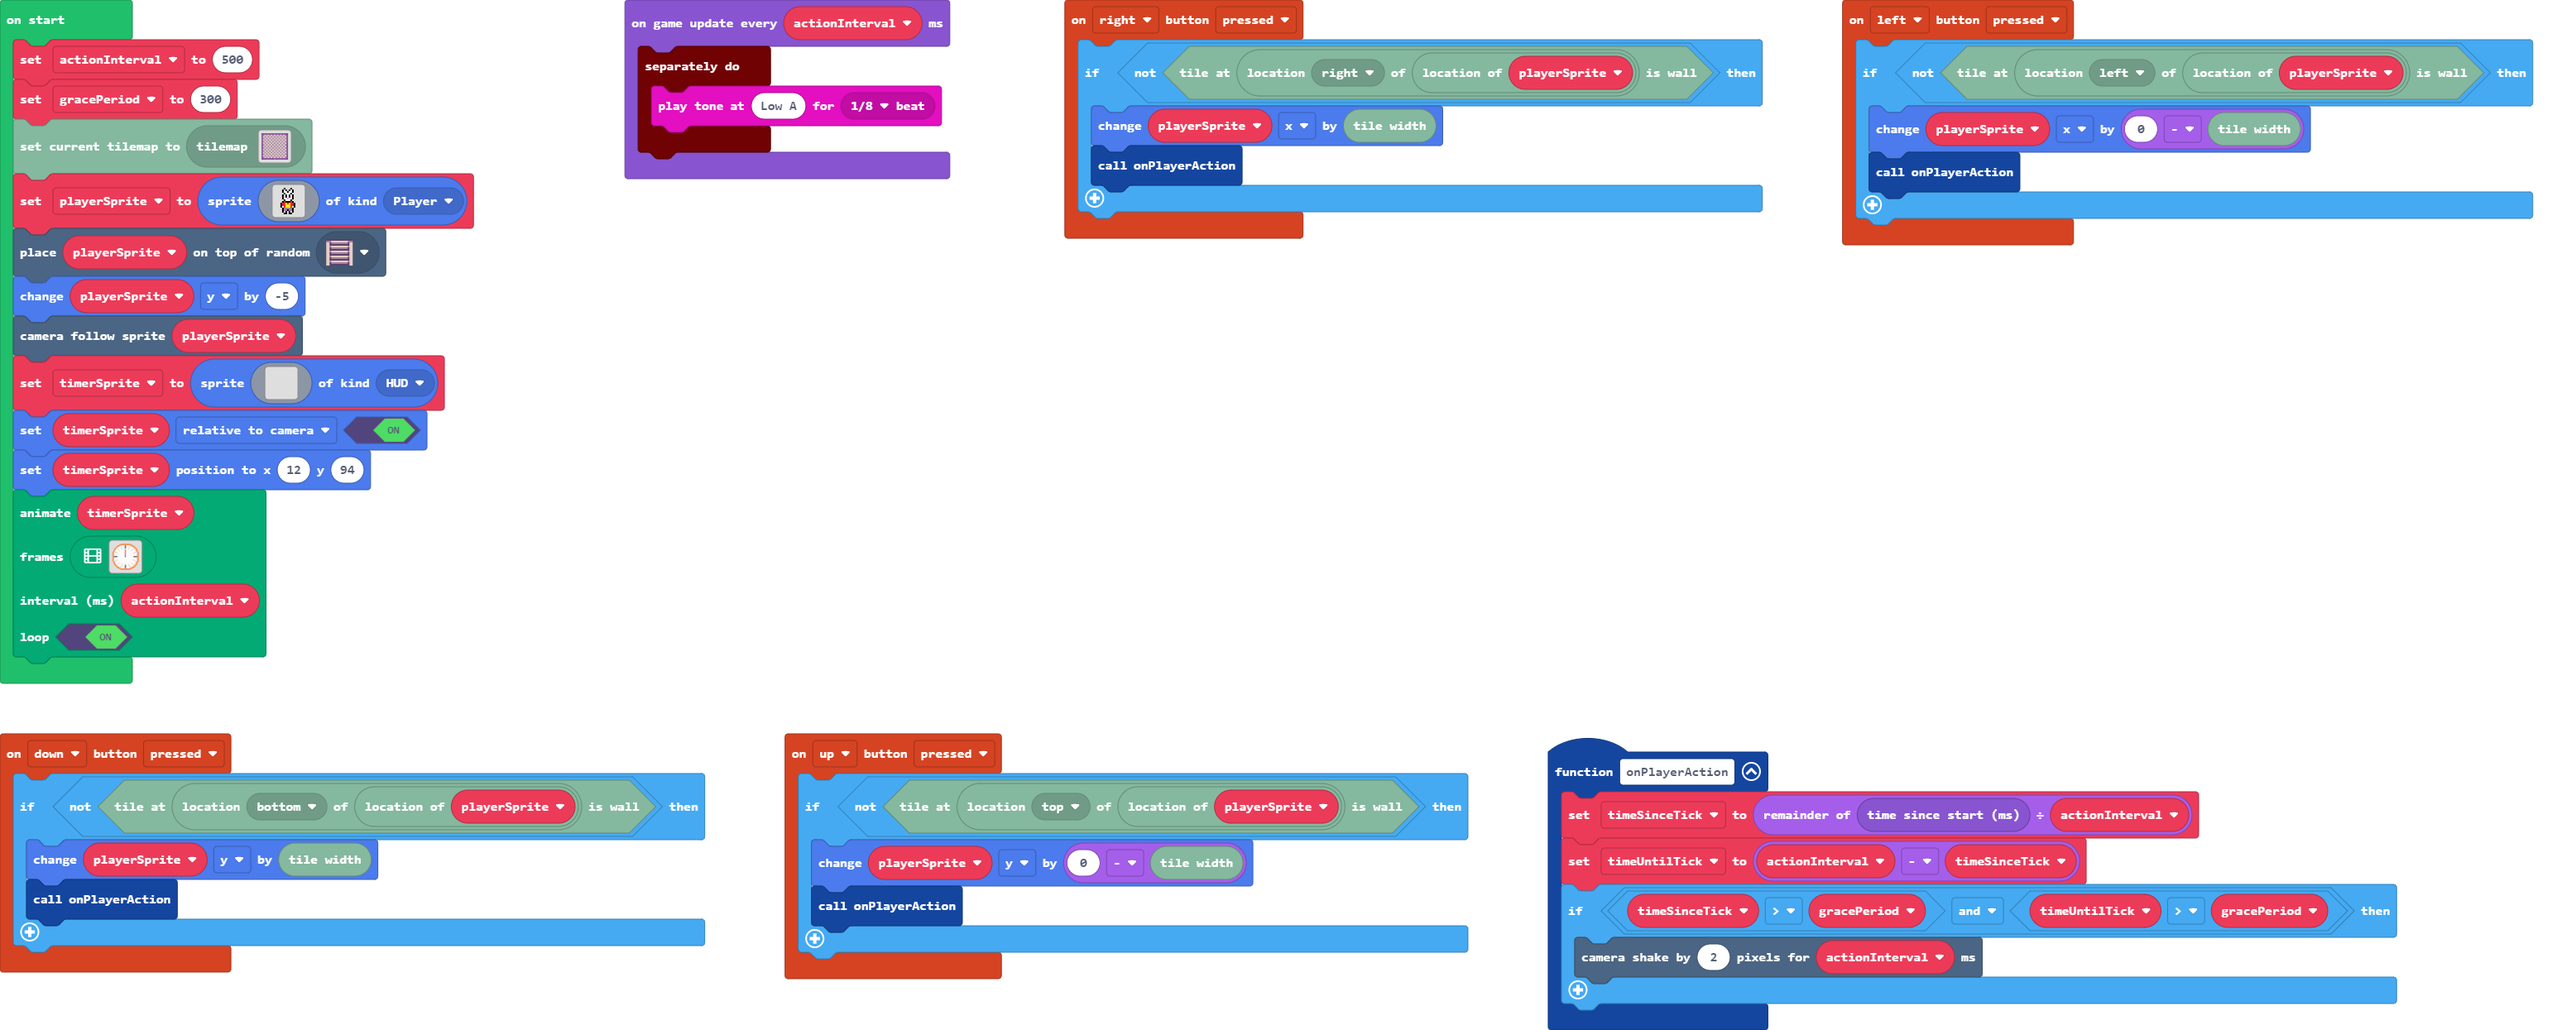
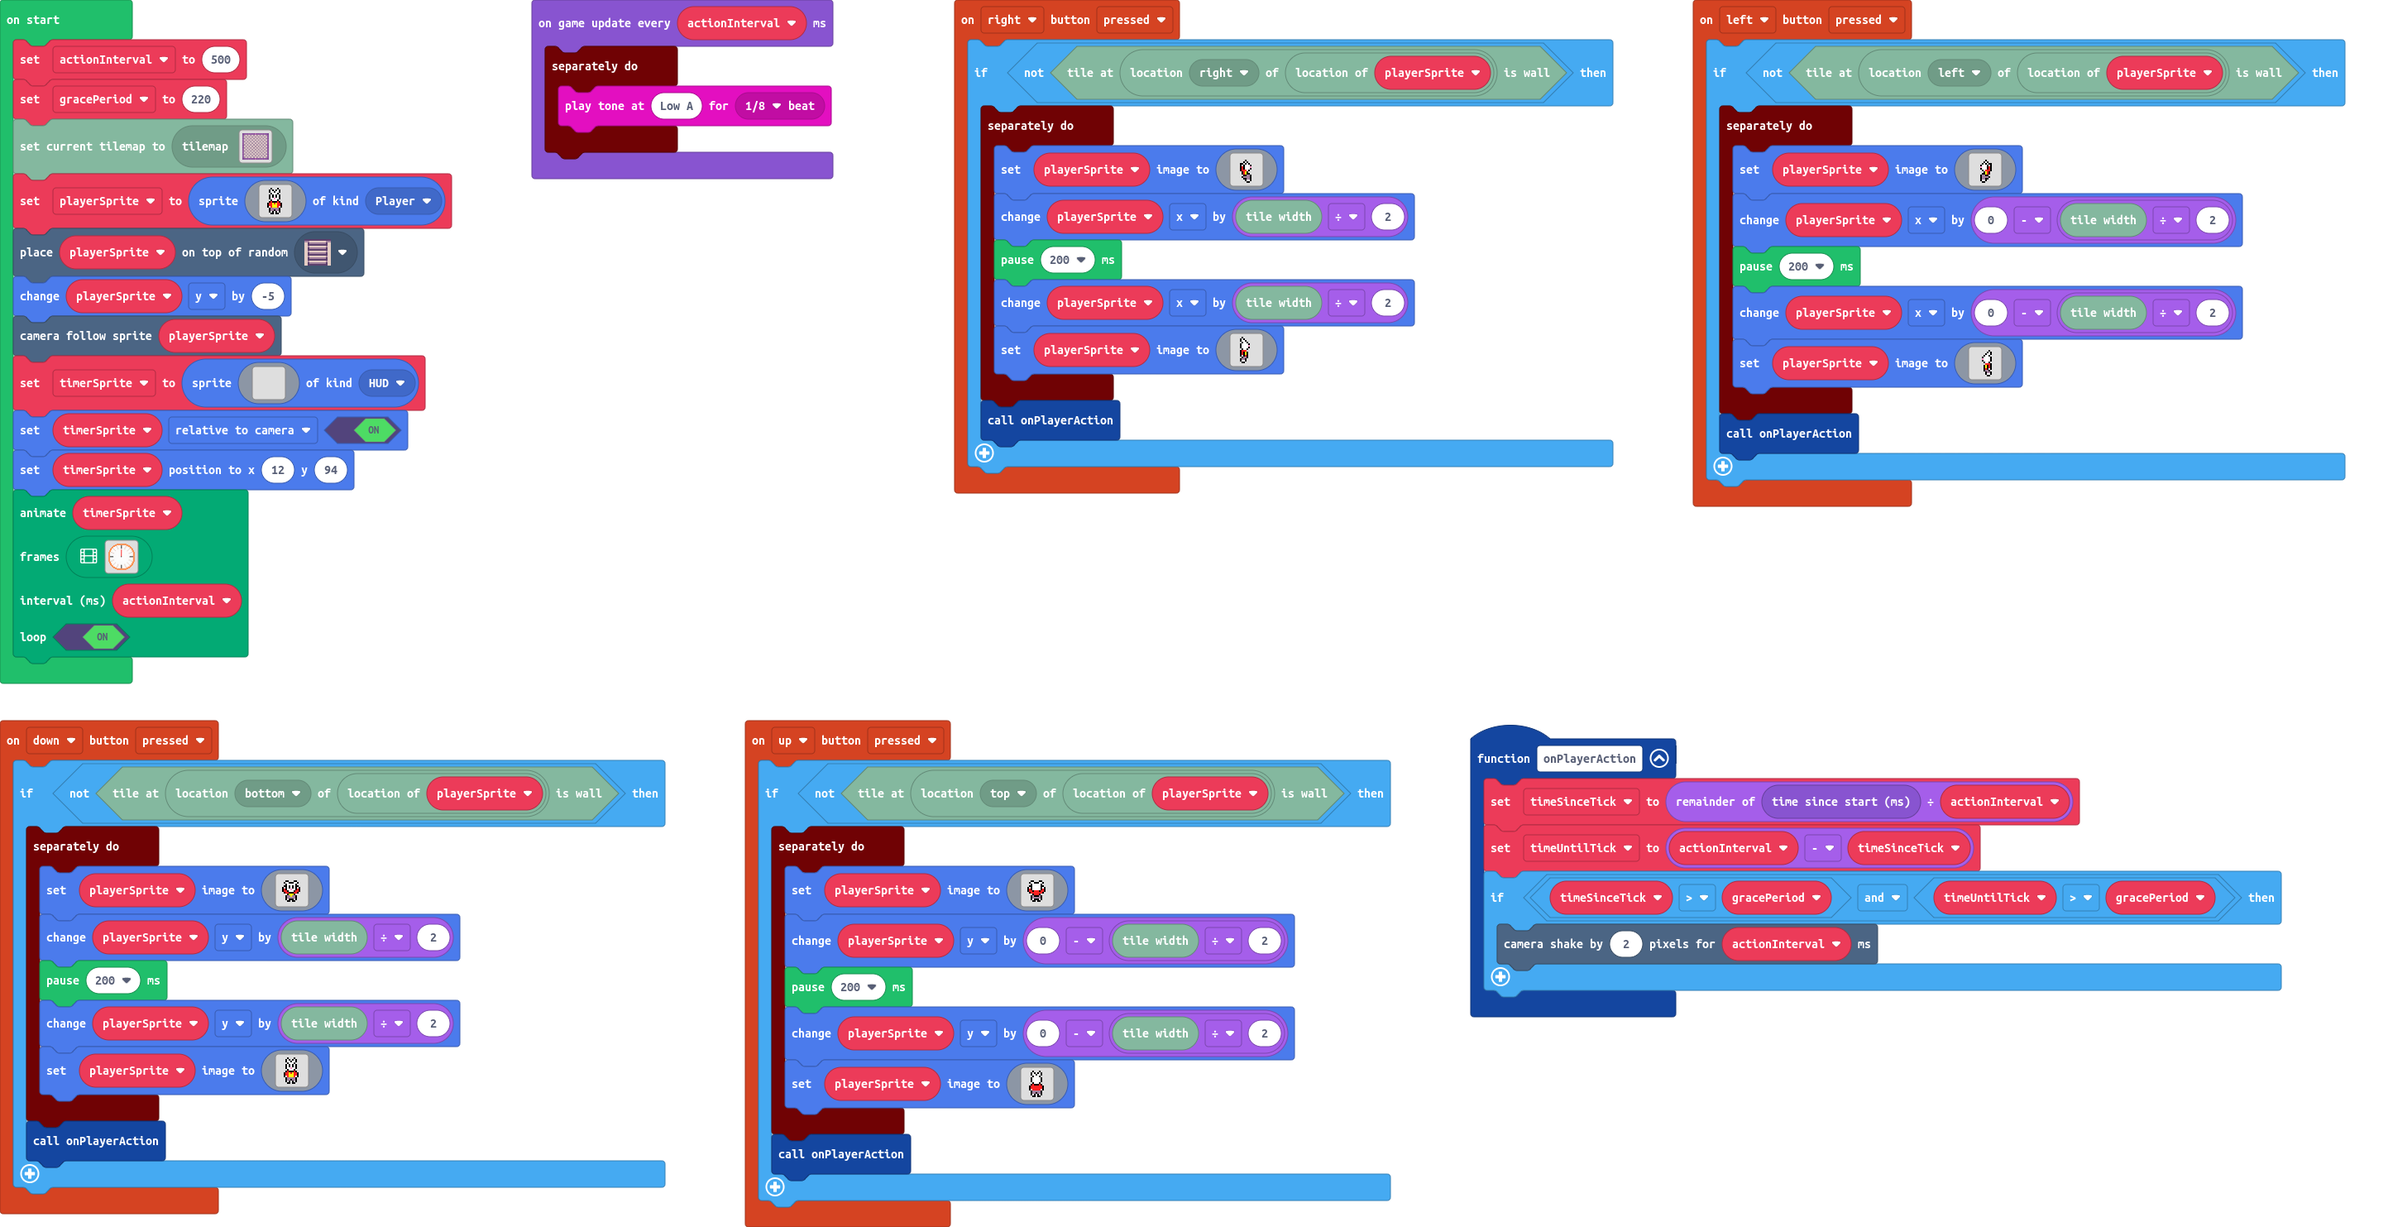
Add janky movement animations.

diff --git a/images.g.ts b/images.g.ts
@@ -4,7 +4,7 @@ namespace myImages {
     helpers._registerFactory("image", function(name: string) {
         switch(helpers.stringTrim(name)) {
             case "image2":
-            case "Player":return img`
+            case "frontStood":return img`
 . . . . . f . . . f . . . . . . 
 . . . . f 1 f . f 1 f . . . . . 
 . . . . f 1 1 f 1 1 f . . . . . 
@@ -21,6 +21,139 @@ namespace myImages {
 . . . . f b b f b b f . . . . . 
 . . . . f 1 f . f 1 f . . . . . 
 . . . . . f f . f f . . . . . . 
+`;
+            case "image1":
+            case "frontJump":return img`
+. . . . . . . . . . . . . . . . 
+. . . . . . . . . . . . . . . . 
+. . . . f f . . . f f . . . . . 
+. . . f 1 1 f f f 1 1 f . . . . 
+. . . . f 1 1 1 1 1 f . . . . . 
+. . . f f 1 f 1 f 1 f f . . . . 
+. . f 1 f 1 f 1 f 1 f 1 f . . . 
+. . f 2 f 1 1 3 1 1 f 2 f . . . 
+. . f 2 2 f 1 1 1 f 2 2 f . . . 
+. . . f 2 2 f f f 2 2 f . . . . 
+. . . . . f 5 5 5 f . . . . . . 
+. . . . f b b 5 b b f . . . . . 
+. . . . f b b b b b f . . . . . 
+. . . . f 1 f f f 1 f . . . . . 
+. . . . . f f . f f . . . . . . 
+. . . . . . . . . . . . . . . . 
+`;
+            case "image3":
+            case "backStood":return img`
+. . . . . f . . . f . . . . . . 
+. . . . f 1 f . f 1 f . . . . . 
+. . . . f 1 1 f 1 1 f . . . . . 
+. . . . . f 1 1 1 f . . . . . . 
+. . . . f 1 1 1 1 1 f . . . . . 
+. . . . f 1 1 1 1 1 f . . . . . 
+. . . . f 1 1 1 1 1 f . . . . . 
+. . . . . f 1 1 1 f . . . . . . 
+. . . . f 2 f f f 2 f . . . . . 
+. . . f 2 2 2 2 2 2 2 f . . . . 
+. . . f 2 2 2 2 2 2 2 f . . . . 
+. . . f 1 2 2 2 2 2 1 f . . . . 
+. . . . f b b b b b f . . . . . 
+. . . . f b b f b b f . . . . . 
+. . . . f 1 f . f 1 f . . . . . 
+. . . . . f f . f f . . . . . . 
+`;
+            case "image4":
+            case "backJump":return img`
+. . . . . . . . . . . . . . . . 
+. . . . . . . . . . . . . . . . 
+. . . . f f . . . f f . . . . . 
+. . . f 1 1 f f f 1 1 f . . . . 
+. . . . f 1 1 1 1 1 f . . . . . 
+. . . f f 1 1 1 1 1 f f . . . . 
+. . f 1 f 1 1 1 1 1 f 1 f . . . 
+. . f 2 f 1 1 1 1 1 f 2 f . . . 
+. . f 2 2 f 2 2 2 f 2 2 f . . . 
+. . . f 2 2 2 2 2 2 2 f . . . . 
+. . . . . f 2 2 2 f . . . . . . 
+. . . . f b f f f b f . . . . . 
+. . . . f b b b b b f . . . . . 
+. . . . f 1 f f f 1 f . . . . . 
+. . . . . f f . f f . . . . . . 
+. . . . . . . . . . . . . . . . 
+`;
+            case "image6":
+            case "rightJump":return img`
+. . . . . . . . . . . . . . . . 
+. . . . . . . . . . . . . . . . 
+. . . . . . . f . . . . . . . . 
+. . . . . . f 1 f . . . . . . . 
+. . . . f f . f 1 f . . . . . . 
+. . . . f 1 f 1 1 1 f . . . . . 
+. . . . f 2 f 1 1 1 3 . . . . . 
+. . . . f 2 f 1 1 1 f . . . . . 
+. . . . f 2 2 2 1 f . . . . . . 
+. . . . . f 2 5 f . . . . . . . 
+. . . . . f 2 5 f f . . . . . . 
+. . . . . . f f b b f . . . . . 
+. . . . . f b b b b f . . . . . 
+. . . . . . f f b b f . . . . . 
+. . . . . . . f 1 1 f . . . . . 
+. . . . . . . . f f . . . . . . 
+`;
+            case "image5":
+            case "rightStood":return img`
+. . . . . f . . . . . . . . . . 
+. . . . f 1 f . . . . . . . . . 
+. . . . f 1 1 f . . . . . . . . 
+. . . . . f 1 1 f . . . . . . . 
+. . . . f 1 1 1 1 f . . . . . . 
+. . . . f 1 1 1 1 3 . . . . . . 
+. . . . f 1 1 1 1 f . . . . . . 
+. . . . . f 1 1 f . . . . . . . 
+. . . . f 2 2 2 . . . . . . . . 
+. . . . f 2 f 5 f . . . . . . . 
+. . . . f 2 f 5 f . . . . . . . 
+. . . . f 1 f 2 f . . . . . . . 
+. . . . . f b b f . . . . . . . 
+. . . . f b b f . . . . . . . . 
+. . . . f 1 1 f . . . . . . . . 
+. . . . . f f . . . . . . . . . 
+`;
+            case "image8":
+            case "leftJump":return img`
+. . . . . . . . . . . . . . . . 
+. . . . . . . . . . . . . . . . 
+. . . . . . . . f . . . . . . . 
+. . . . . . . f 1 f . . . . . . 
+. . . . . . f 1 f . f f . . . . 
+. . . . . f 1 1 1 f 1 f . . . . 
+. . . . . 3 1 1 1 f 2 f . . . . 
+. . . . . f 1 1 1 f 2 f . . . . 
+. . . . . . f 1 2 2 2 f . . . . 
+. . . . . . . f 5 2 f . . . . . 
+. . . . . . f f 5 2 f . . . . . 
+. . . . . f b b f f . . . . . . 
+. . . . . f b b b b f . . . . . 
+. . . . . f b b f f . . . . . . 
+. . . . . f 1 1 f . . . . . . . 
+. . . . . . f f . . . . . . . . 
+`;
+            case "image7":
+            case "leftStood":return img`
+. . . . . . . . . . f . . . . . 
+. . . . . . . . . f 1 f . . . . 
+. . . . . . . . f 1 1 f . . . . 
+. . . . . . . f 1 1 f . . . . . 
+. . . . . . f 1 1 1 1 f . . . . 
+. . . . . . 3 1 1 1 1 f . . . . 
+. . . . . . f 1 1 1 1 f . . . . 
+. . . . . . . f 1 1 f . . . . . 
+. . . . . . . . 2 2 2 f . . . . 
+. . . . . . . f 5 f 2 f . . . . 
+. . . . . . . f 5 f 2 f . . . . 
+. . . . . . . f 2 f 1 f . . . . 
+. . . . . . . f b b f . . . . . 
+. . . . . . . . f b b f . . . . 
+. . . . . . . . f 1 1 f . . . . 
+. . . . . . . . . f f . . . . . 
 `;
         }
         return null;
@@ -541,6 +674,42 @@ namespace myImages {
 ......444411111f111114444......
 ........444444444444444........
 ..........44444444444..........
+`];
+            case "playerFront":
+            case "anim1":return [img`
+. . . . . . . . . . . . . . . . 
+. . . . . . . . . . . . . . . . 
+. . . . f f . . . f f . . . . . 
+. . . f 1 1 f f f 1 1 f . . . . 
+. . . . f 1 1 1 1 1 f . . . . . 
+. . . f f 1 f 1 f 1 f f . . . . 
+. . f 1 f 1 f 1 f 1 f 1 f . . . 
+. . f 2 f 1 1 3 1 1 f 2 f . . . 
+. . f 2 2 f 1 1 1 f 2 2 f . . . 
+. . . f 2 2 f f f 2 2 f . . . . 
+. . . . . f 5 5 5 f . . . . . . 
+. . . . f b b 5 b b f . . . . . 
+. . . . f b b b b b f . . . . . 
+. . . . f 1 f f f 1 f . . . . . 
+. . . . . f f . f f . . . . . . 
+. . . . . . . . . . . . . . . . 
+`, img`
+. . . . . f . . . f . . . . . . 
+. . . . f 1 f . f 1 f . . . . . 
+. . . . f 1 1 f 1 1 f . . . . . 
+. . . . . f 1 1 1 f . . . . . . 
+. . . . f 1 f 1 f 1 f . . . . . 
+. . . . f 1 f 1 f 1 f . . . . . 
+. . . . f 1 1 3 1 1 f . . . . . 
+. . . . . f 1 1 1 f . . . . . . 
+. . . . f 2 f f f 2 f . . . . . 
+. . . f 2 2 5 2 5 2 2 f . . . . 
+. . . f 2 2 5 5 5 2 2 f . . . . 
+. . . f 1 2 5 5 5 2 1 f . . . . 
+. . . . f b b b b b f . . . . . 
+. . . . f b b f b b f . . . . . 
+. . . . f 1 f . f 1 f . . . . . 
+. . . . . f f . f f . . . . . . 
 `];
         }
         return null;

diff --git a/main.ts b/main.ts
@@ -3,25 +3,49 @@ namespace SpriteKind {
 }
 controller.up.onEvent(ControllerButtonEvent.Pressed, function () {
     if (!(tiles.tileIsWall(tiles.locationInDirection(tiles.locationOfSprite(playerSprite), CollisionDirection.Top)))) {
-        playerSprite.y += 0 - tiles.tileWidth()
+        timer.background(function () {
+            playerSprite.setImage(assets.image`backJump`)
+            playerSprite.y += 0 - tiles.tileWidth() / 2
+            pause(200)
+            playerSprite.y += 0 - tiles.tileWidth() / 2
+            playerSprite.setImage(assets.image`backStood`)
+        })
         onPlayerAction()
     }
 })
 controller.left.onEvent(ControllerButtonEvent.Pressed, function () {
     if (!(tiles.tileIsWall(tiles.locationInDirection(tiles.locationOfSprite(playerSprite), CollisionDirection.Left)))) {
-        playerSprite.x += 0 - tiles.tileWidth()
+        timer.background(function () {
+            playerSprite.setImage(assets.image`leftJump`)
+            playerSprite.x += 0 - tiles.tileWidth() / 2
+            pause(200)
+            playerSprite.x += 0 - tiles.tileWidth() / 2
+            playerSprite.setImage(assets.image`leftStood`)
+        })
         onPlayerAction()
     }
 })
 controller.right.onEvent(ControllerButtonEvent.Pressed, function () {
     if (!(tiles.tileIsWall(tiles.locationInDirection(tiles.locationOfSprite(playerSprite), CollisionDirection.Right)))) {
-        playerSprite.x += tiles.tileWidth()
+        timer.background(function () {
+            playerSprite.setImage(assets.image`rightJump`)
+            playerSprite.x += tiles.tileWidth() / 2
+            pause(200)
+            playerSprite.x += tiles.tileWidth() / 2
+            playerSprite.setImage(assets.image`rightStood`)
+        })
         onPlayerAction()
     }
 })
 controller.down.onEvent(ControllerButtonEvent.Pressed, function () {
     if (!(tiles.tileIsWall(tiles.locationInDirection(tiles.locationOfSprite(playerSprite), CollisionDirection.Bottom)))) {
-        playerSprite.y += tiles.tileWidth()
+        timer.background(function () {
+            playerSprite.setImage(assets.image`frontJump`)
+            playerSprite.y += tiles.tileWidth() / 2
+            pause(200)
+            playerSprite.y += tiles.tileWidth() / 2
+            playerSprite.setImage(assets.image`frontStood`)
+        })
         onPlayerAction()
     }
 })
@@ -38,9 +62,9 @@ let playerSprite: Sprite = null
 let gracePeriod = 0
 let actionInterval = 0
 actionInterval = 500
-gracePeriod = 300
+gracePeriod = 220
 tiles.loadMap(tiles.createMap(tilemap`level0`))
-playerSprite = sprites.create(assets.image`Player`, SpriteKind.Player)
+playerSprite = sprites.create(assets.image`frontStood`, SpriteKind.Player)
 tiles.placeOnRandomTile(playerSprite, sprites.dungeon.stairSouth)
 playerSprite.y += -5
 scene.cameraFollowSprite(playerSprite)
